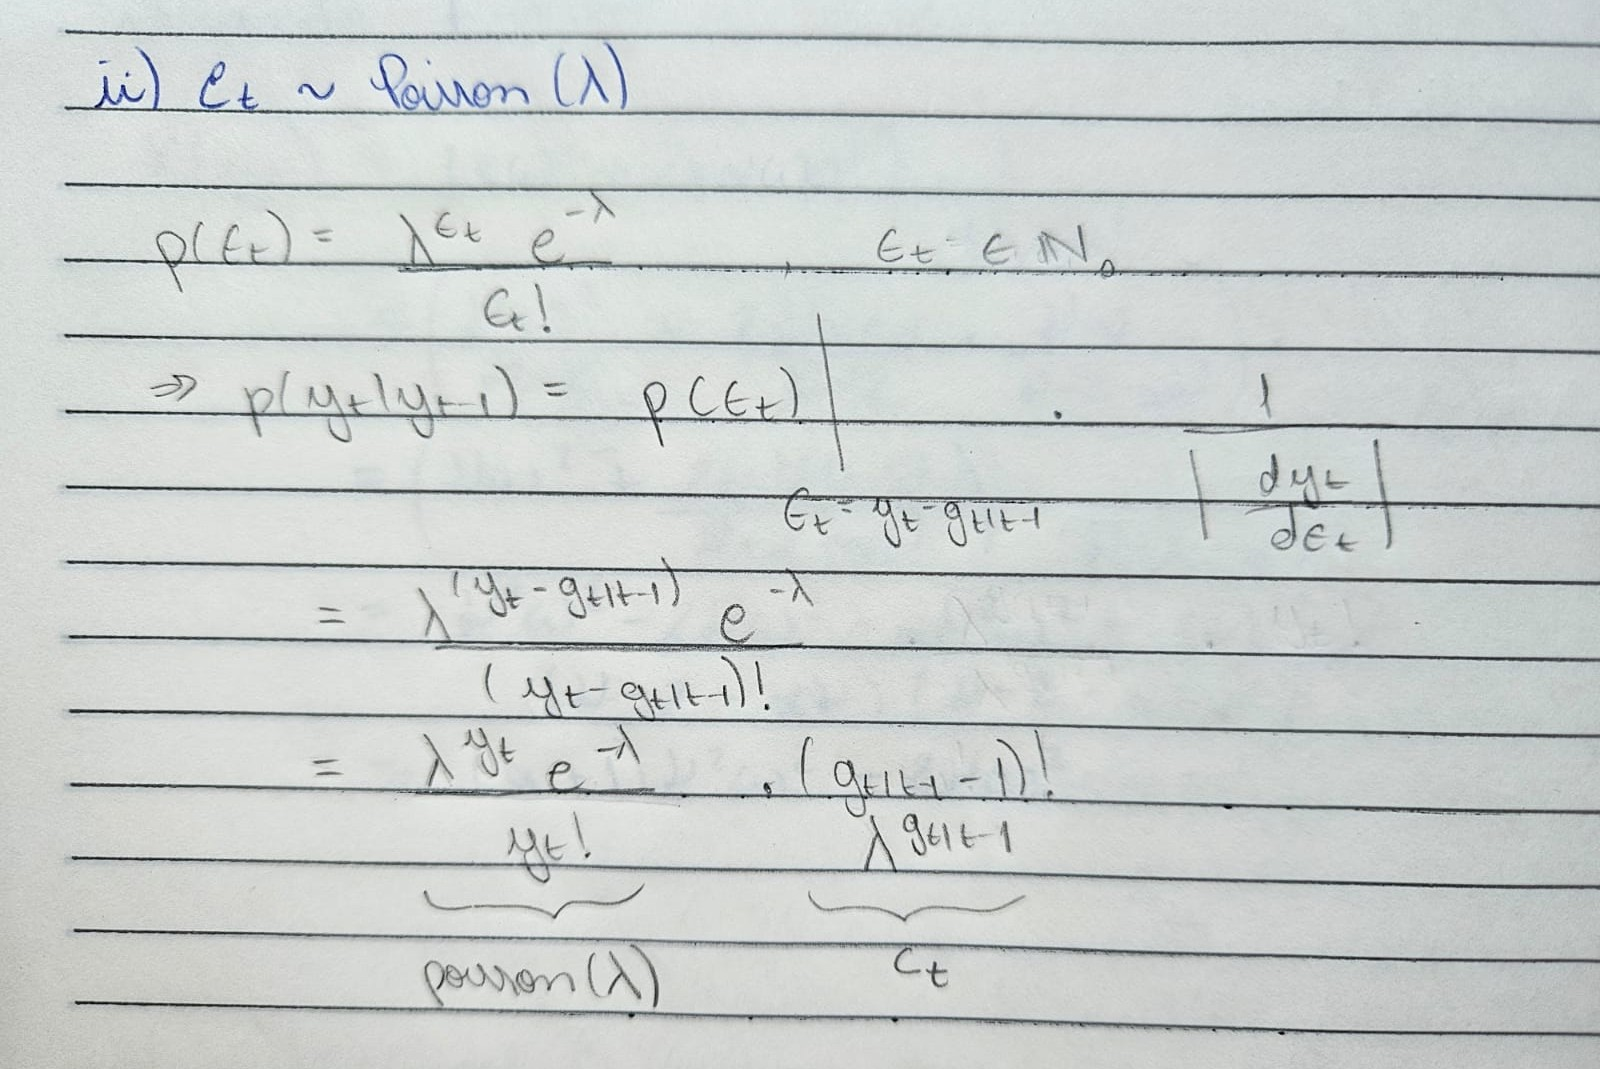
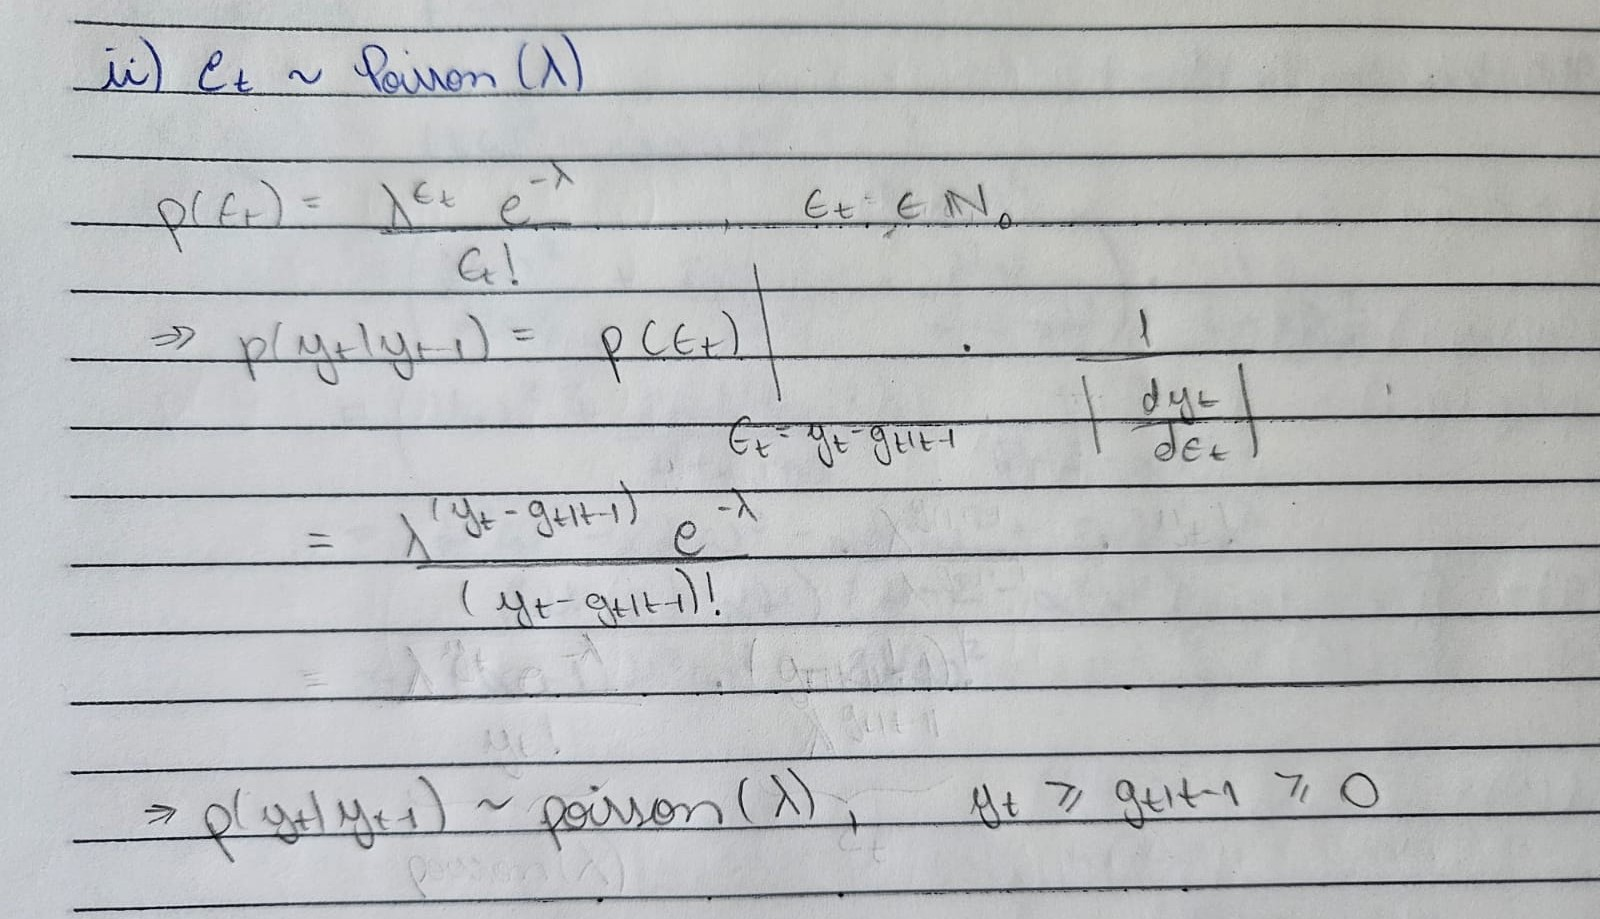
atualizei fotos do caderno sdm

diff --git a/SDM/article.md b/SDM/article.md
@@ -21,7 +21,7 @@ lot: false       # lista de tabelas
 $$
 \begin{align*}
 y_{t|t-1} &= \sigma_{t|t-1} \cdot \epsilon_t \quad \epsilon_t \sim t(0, 1, \nu) \\
-\sigma^2_{t|t-1} &= \omega + \alpha y_t^2
+\sigma^2_{t+1|t} &= \omega + \alpha y_t^2
 \end{align*}
 $$
 
@@ -29,27 +29,34 @@ $$
 
 ## Item a) Momentos condicionais
 ![](img/1a.jpg)
+   
 
+$$
+\frac{(k\omega^2+2k\alpha\omega(\nu\omega/(\nu(1-\alpha)-2)))}{1-k\alpha^2}
+$$
 
 ## Item b) Distribuição condicional
 
 ![](img/1b.jpg)
 
 
-## Item c) Momentos incondicionais [INCOMPLETE]
+## Item c) Momentos incondicionais
 
 ![](img/1ci.jpg)
 ![](img/1cii.jpg)
 ![](img/1ciii.jpg)
+![](img/1civ.jpg)
+![](img/1cv.jpg)
 
 ## Item d) Distribuição incondicional [TODO]
 
 ## Item e) Correlações
 ### i) Linear
-
 ![](img/1ei.jpg)
 
-### ii) Quadrática [TODO]
+### ii) Quadrática
+![](img/1eii.jpg)
+![](img/1eiii.jpg)
 
 ## Item f) Momentos da distribuição preditiva
 
@@ -74,7 +81,8 @@ $$
 ### ii) $ \epsilon_t \sim  Poisson(\lambda)$
 ![](img/2aii.jpg)
 
-### iii) $ \epsilon_t \sim  Beta(\alpha, \beta)$ [TODO]
+### iii) $ \epsilon_t \sim  Beta(\alpha, \beta)$
+![](img/2aiii.jpg)
 
 ## item b) $  y_t = g_{t|t-1} \cdot \epsilon_t$ 
 ### i) $ \epsilon_t \sim  Exp(\lambda)$
